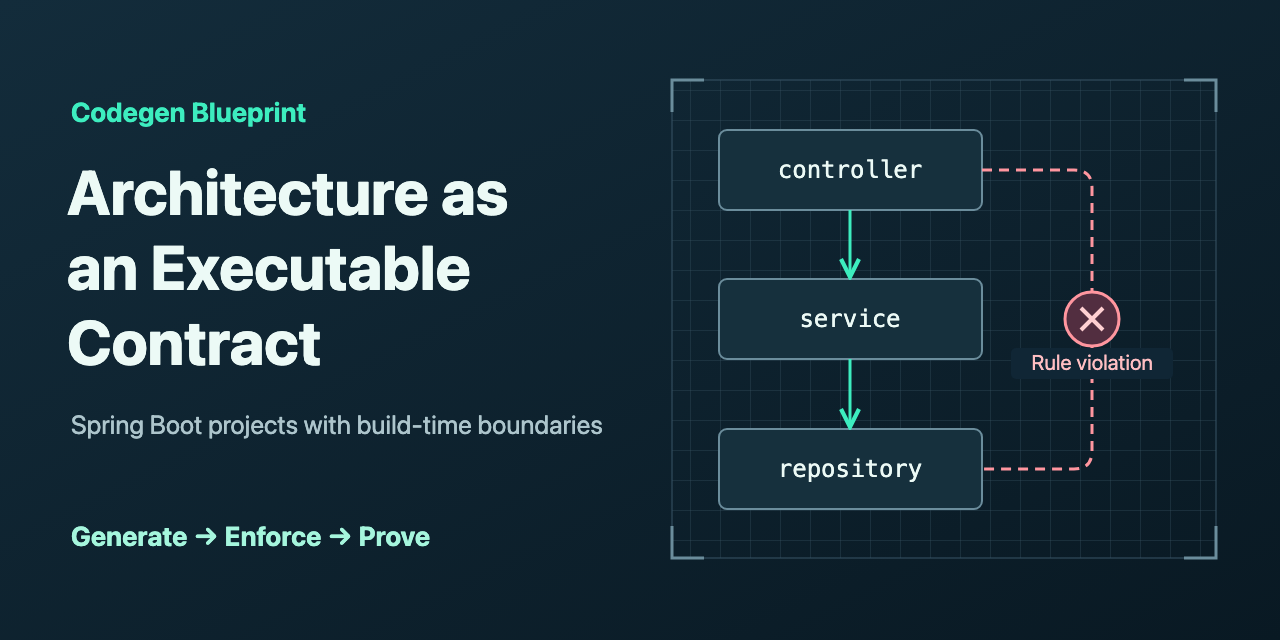
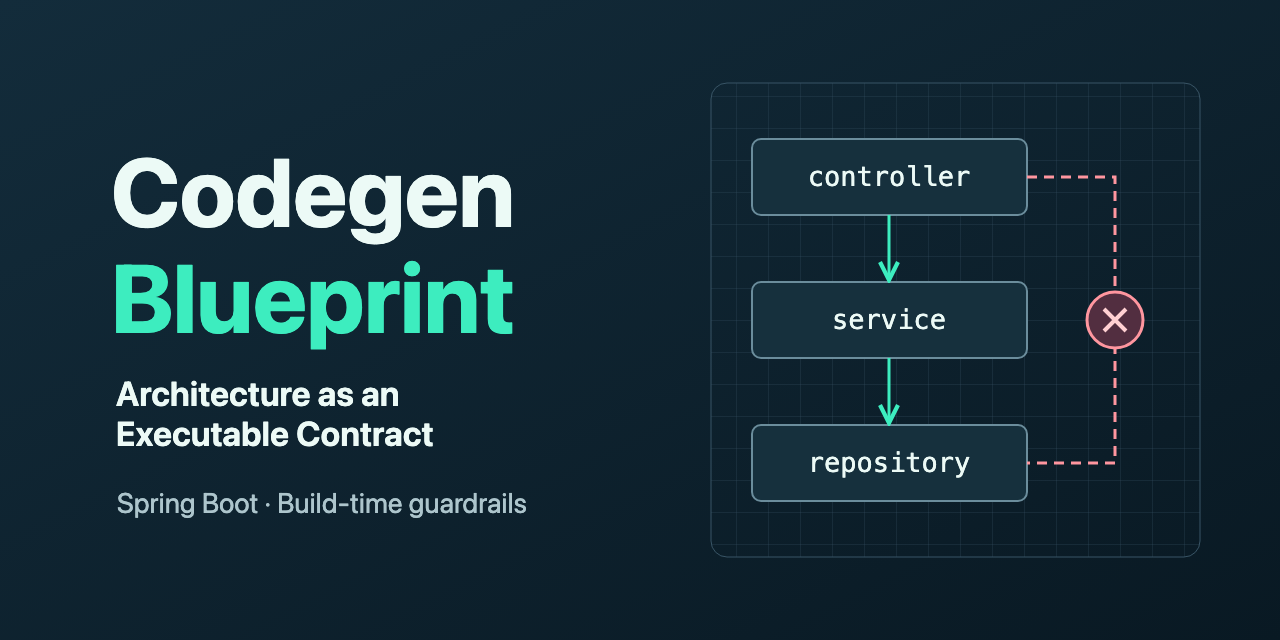
docs: refine OSS documentation and visual identity

diff --git a/README.md b/README.md
@@ -2,64 +2,46 @@
 
 **Architecture as an Executable Contract**
 
-Start a Java/Maven Spring Boot project with package boundaries that Maven can enforce. Codegen Blueprint delivers the sources, the Maven wrapper and the ArchUnit tests selected for your layout. As the code evolves, a covered dependency can turn a successful compile into a failed build with a named architecture rule.
+Generate a Java/Maven Spring Boot project with the layout, Maven wrapper and ArchUnit tests you select. A forbidden dependency can compile successfully and still fail the generated build at a named architecture rule.
 
 **Generate → Enforce → Prove**
 
-[Generate your first project](docs/quickstart.md) · [Reproduce a boundary failure](docs/examples/boundary-proof.md) · [Explore the docs](docs/index.md)
+[Run the quickstart](docs/quickstart.md) · [Reproduce a boundary failure](docs/examples/boundary-proof.md) · [Explore the documentation](docs/index.md)
 
-[![The generated standard project passes, a controller-to-repository dependency fails its ArchUnit rule, and the restored project passes](docs/assets/proof-2.0.svg)](docs/examples/boundary-proof.md)
+## Try it from source
 
-## Generate a project
-
-From this checkout, use JDK 25 and Maven 3.9.16. The commands use the 2.0 development JAR. The [quickstart](docs/quickstart.md) is the example CI executes and also accepts a supplied JAR.
+Use **JDK 25** and **Maven 3.9.16**. From the repository root, run `mvn -B -ntp clean package` to build the 2.0 snapshot, then generate into a fresh directory.
 
 ```bash
-mvn -B -ntp clean package
 OUTPUT_DIR="$(mktemp -d)"
 java -jar target/codegen-blueprint-2.0.0-SNAPSHOT.jar --cli springboot \
   --group-id com.example --artifact-id greeting --name Greeting \
-  --description 'Greeting sample' --package-name com.example.greeting \
-  --layout standard --guardrails strict --sample-code basic \
-  --target-dir "$OUTPUT_DIR"
-cd "$OUTPUT_DIR/greeting"
-sh ./mvnw -B -ntp clean verify
+  --description 'Greeting sample with executable architecture' \
+  --package-name com.example.greeting --layout hexagonal \
+  --guardrails strict --sample-code basic --target-dir "$OUTPUT_DIR"
 ```
 
-Expect a project directory and a sibling ZIP. The sample's Failsafe tests exercise a real HTTP server. A first Maven build needs access to the wrapper distribution and dependencies.
+The generator writes a project directory and a sibling ZIP. The [verified quickstart](docs/quickstart.md) builds that project with its own wrapper and shows where to find the architecture and sample HTTP test reports.
 
-## Choose what the build enforces
+## Choose a layout and guardrails
 
-| Layout | How to structure a feature |
+| Layout | Package boundaries |
 | --- | --- |
-| **Standard** | Put HTTP entry points in `controller`, orchestration in `service` and persistence access in `repository`. |
-| **Hexagonal** | Put entry points in `adapter.in` and infrastructure in `adapter.out`. Define application ports and use cases in `application`, business types in `domain`, and wiring in `bootstrap`. |
+| **Standard** (default) | Controllers, services, repositories and domain types organize each feature. |
+| **Hexagonal** | Inbound and outbound adapters use application ports. Business types live in the domain and bootstrap wires the components. |
 
-| Guardrails | What gets generated |
-| --- | --- |
-| `none` | Project structure with no generated ArchUnit dependency or rules. |
-| `basic` (default) | Layout-specific scope checks, core dependency restrictions and cycle checks between package families within a context. |
-| `strict` | Basic coverage plus stronger layout-specific boundaries, including checks for REST signatures when MVC is present. |
+Use `basic` (default) for core layout, package and cycle checks, `strict` for additional layout-specific checks including REST signatures when MVC is present, or `none` for the layout without generated ArchUnit checks. [Generated examples](docs/examples/generated-projects.md) · [Guardrails rulebook](docs/architecture/architecture-guardrails-rulebook.md)
 
-[Inspect both generated layouts](docs/examples/generated-projects.md) · [Read the rulebook](docs/architecture/architecture-guardrails-rulebook.md)
+## See the build catch a boundary violation
 
-## Prove that a boundary holds
+In the generated Standard sample, a field in `GreetingController` with type `LoggingGreetingAuditRepository` compiles. Maven verification fails at `controllers_must_not_depend_on_repositories`. Remove the field and import to restore the passing build.
 
-In the generated Standard sample, add the following import and field to `GreetingController`.
+[![The baseline passes, a compiling dependency fails ArchUnit, and the restored build passes](docs/assets/proof-2.0.svg)](docs/examples/boundary-proof.md)
 
-```java
-import com.example.greeting.bp.sample.repository.LoggingGreetingAuditRepository;
-
-// Inside GreetingController
-private LoggingGreetingAuditRepository __archViolation;
-```
-
-The field compiles. During `clean verify` the rule `controllers_must_not_depend_on_repositories` fails because the field type couples the HTTP controller directly to persistence. Removing the field and its import restores the passing build.
-
-[Reproduce the proof](docs/examples/boundary-proof.md) · [Inspect the recorded results](docs/examples/proof-2.0.txt)
+[Run the proof](docs/examples/boundary-proof.md) · [Read the recorded results](docs/examples/proof-2.0.txt)
 
 ## Supported targets
 
-The generator runs on **Spring Boot 4.2.0** and requires **Java 25**. It generates Maven projects for **Spring Boot 4.1 or 4.2**, each with **Java 21 or 25**. Defaults are **Boot 4.2 / Java 25**. Pass `--boot 4.1` or `--java 21` to choose an alternative. The CLI reports the exact stable patch written to the POM and explicitly reports when a connection failure selects the bundled reference.
+The generator runs on **Spring Boot 4.2.0** and Java 25. It generates Maven projects for **Spring Boot 4.1 or 4.2** with **Java 21 or 25**. The default is **Boot 4.2 / Java 25**. The CLI reports the exact patch pinned in the generated POM and identifies bundled fallback when it applies. [Compatibility and verification coverage](docs/compatibility.md) · [CLI reference](docs/cli.md)
 
-[Compatibility](docs/compatibility.md) · [CLI reference](docs/cli.md) · [Architecture contract](docs/architecture/executable-architecture-contract.md) · [Release notes](docs/release-notes.md) · [Contributing](CONTRIBUTING.md)
+[Architecture contract](docs/architecture/executable-architecture-contract.md) · [2.0 release notes](docs/release-notes.md) · [Contributing](CONTRIBUTING.md)

diff --git a/docs/index.md b/docs/index.md
@@ -1,36 +1,25 @@
-# Architecture as an Executable Contract
+# Codegen Blueprint documentation
 
-Generate a Spring Boot project with Maven and make the intended dependency boundaries part of the build. Start with a working HTTP sample, cross one boundary, and see the exact architecture assertion that catches it.
+## Learn
 
-[Generate a project](quickstart.md) · [Run the boundary proof](examples/boundary-proof.md)
+- [Quickstart](quickstart.md) builds the generator, creates a sample project and runs its Maven wrapper.
+- [Generated project walkthroughs](examples/generated-projects.md) show the Standard and Hexagonal outputs.
+- [CLI reference](cli.md) covers options, dependency aliases and failure behavior.
 
-## Understand the layout
+## Understand
 
-Choose **standard** when controllers, services and repositories express your team's architecture. Choose **hexagonal** when you want inbound and outbound adapters to communicate through application ports, with business types in the domain and wiring in bootstrap.
+- [Executable architecture contract](architecture/executable-architecture-contract.md) describes what the generator delivers and what the build enforces.
+- [Guardrails rulebook](architecture/architecture-guardrails-rulebook.md) maps each layout and enforcement mode to its ArchUnit assertions.
 
-The generator delivers the project and ZIP. The generated project's Maven lifecycle owns compilation, architecture checks and sample integration tests.
+![Representative Standard and Hexagonal source dependencies, with solid permitted edges and dashed prohibited edges](assets/architecture-2.0.svg)
 
-![Allowed and prohibited source dependencies for Standard Layered and Hexagonal projects](assets/architecture-2.0.svg)
+## Contribute
 
-## Generate and verify
+- [Contributing guide](../CONTRIBUTING.md) explains how to propose a change and verify it.
+- [Documentation tooling](maintainers/documentation.md) covers local Pages builds, quickstart checks and generated snapshot checks.
 
-Follow the [quickstart](quickstart.md) with JDK 25. Run the generated wrapper and look for the sample HTTP integration test and ArchUnit reports. The project targets **Boot 4.2 / Java 25** by default. Both Boot 4.1 and 4.2 can target Java 21 or 25. See [compatibility](compatibility.md) for the resolved patch and bundled-reference rules.
+## Trust the evidence
 
-Start with `basic` for layout-specific checks, choose `strict` to retain Basic guarantees and add stronger rules, or use `none` for the layout without generated ArchUnit checks.
-
-## Break a boundary
-
-In the standard strict sample, let `GreetingController` declare a field of type `LoggingGreetingAuditRepository`. Java accepts the dependency. ArchUnit fails the rule that prohibits controllers from depending on repositories. Restore the controller and run the same Maven command again.
-
-[![Baseline passes, the architecture rule fails, and restoration passes](assets/proof-2.0.svg)](examples/boundary-proof.md)
-
-[Follow the proof steps](examples/boundary-proof.md) · [Read the exact rule failure](examples/proof-2.0.txt)
-
-## Explore the contract
-
-| Goal | Reference |
-| --- | --- |
-| Inspect what each layout delivers | [Generated project walkthroughs](examples/generated-projects.md) |
-| Choose a layout, target or dependency | [CLI reference](cli.md) · [Compatibility](compatibility.md) |
-| Check exactly what Maven enforces | [Architecture contract](architecture/executable-architecture-contract.md) · [Guardrails rulebook](architecture/architecture-guardrails-rulebook.md) |
-| Review release scope and evidence | [Release notes](release-notes.md) · [Release readiness](maintainers/release-discipline.md) |
+- [Boundary proof](examples/boundary-proof.md) reproduces a compiling violation, a named ArchUnit failure and a restored passing build.
+- [Compatibility](compatibility.md) distinguishes supported targets, verified patches and bundled references.
+- [Release notes](release-notes.md) describe the unreleased 2.0 changes. [Release readiness](maintainers/release-discipline.md) lists the verification gates.

diff --git a/docs/maintainers/visual-assets.md b/docs/maintainers/visual-assets.md
@@ -8,4 +8,15 @@
 
 The proof graphic summarizes the standard controller-to-repository case. Update it only after rerunning the [proof](../examples/boundary-proof.md) and checking the corresponding verdict. Produce the portable record with `python3 scripts/proof-record.py path/to/proof-run > docs/examples/proof-2.0.txt`. The record keeps the artifact hash, JVM, resolved Boot patch and the failing rule names.
 
-Export the social SVG at its declared 1280 × 640 size using a browser or vector renderer. Inspect it at full and half size. Uploading the PNG to repository settings is a maintainer action. [GitHub social preview instructions](https://docs.github.com/en/repositories/managing-your-repositorys-settings-and-features/customizing-your-repository/customizing-your-repositorys-social-media-preview)
+Treat the SVGs as the editable sources. Review them at native and half size on light and dark backgrounds. Check text fit, contrast, arrow direction and accessible titles and descriptions. Solid edges indicate permitted dependencies and dashed edges indicate prohibited ones.
+
+Export the social PNG from the SVG at 1280 × 640. For example, set `CHROMIUM` to the path of a Chromium or Chrome executable and run from the repository root.
+
+```bash
+"$CHROMIUM" --headless --disable-gpu --force-device-scale-factor=1 --hide-scrollbars \
+  --user-data-dir="$(mktemp -d)" --window-size=1280,640 \
+  --screenshot="$PWD/docs/assets/social-preview.png" \
+  "file://$PWD/docs/assets/social-preview.svg"
+```
+
+Check the exported dimensions and compare the PNG with the SVG at full size and in a thumbnail or crop. Uploading the PNG to repository settings is a maintainer action. [GitHub social preview instructions](https://docs.github.com/en/repositories/managing-your-repositorys-settings-and-features/customizing-your-repository/customizing-your-repositorys-social-media-preview)

diff --git a/CHANGELOG.md b/CHANGELOG.md
@@ -103,5 +103,5 @@ Generated projects are **single-module** and include:
 
 ### References
 
-* Binding contract: [Executable Architecture Contract](docs/architecture/executable-architecture-contract.md)
-* Guardrails semantics: [Architecture Guardrails Rulebook](docs/architecture/architecture-guardrails-rulebook.md)
+* Binding contract: [Executable Architecture Contract](https://github.com/blueprint-platform/codegen-blueprint/blob/68a959685612bc5e6595c8b8195d5d85ec6f9fff/docs/architecture/executable-architecture-contract.md)
+* Guardrails semantics: [Architecture Guardrails Rulebook](https://github.com/blueprint-platform/codegen-blueprint/blob/68a959685612bc5e6595c8b8195d5d85ec6f9fff/docs/architecture/architecture-guardrails-rulebook.md)

diff --git a/docs/architecture/architecture-guardrails-rulebook.md b/docs/architecture/architecture-guardrails-rulebook.md
@@ -12,7 +12,7 @@ Use this reference when choosing a mode or investigating a failing generated arc
 
 The generator chooses the template family using the layout and mode. Strict REST templates come from the `mvc/` group when the effective dependency plan includes MVC. Explicit `web` and the MVC starter added by the basic sample both activate that group. Strict MVC generation fails if the required template group is missing.
 
-![Code dependencies for a layered feature and for ports and adapters, with prohibited edges in pink](../assets/architecture-2.0.svg)
+![Source dependencies in Standard and Hexagonal layouts, with prohibited edges dashed](../assets/architecture-2.0.svg)
 
 ## Standard layered layout
 
